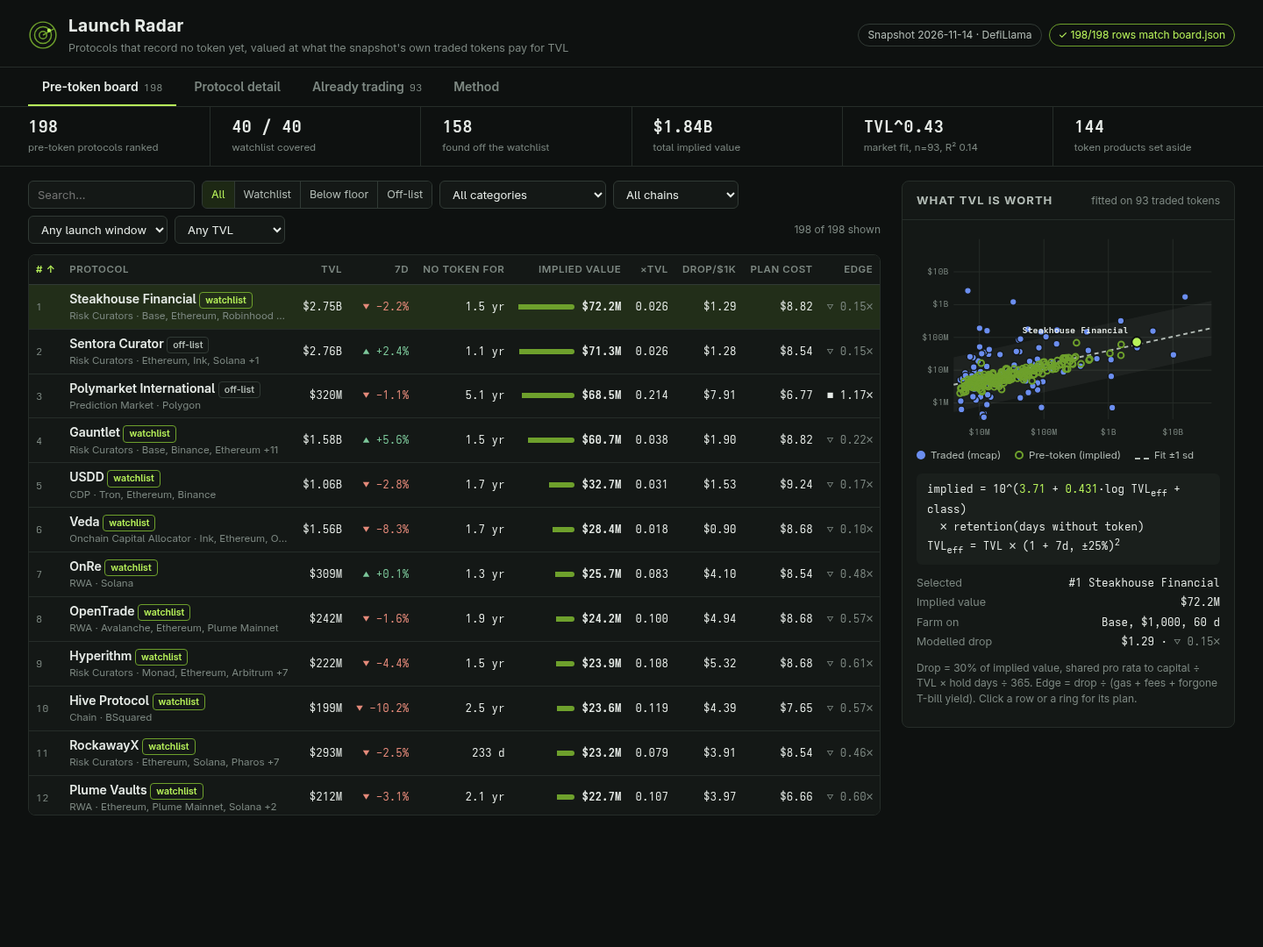
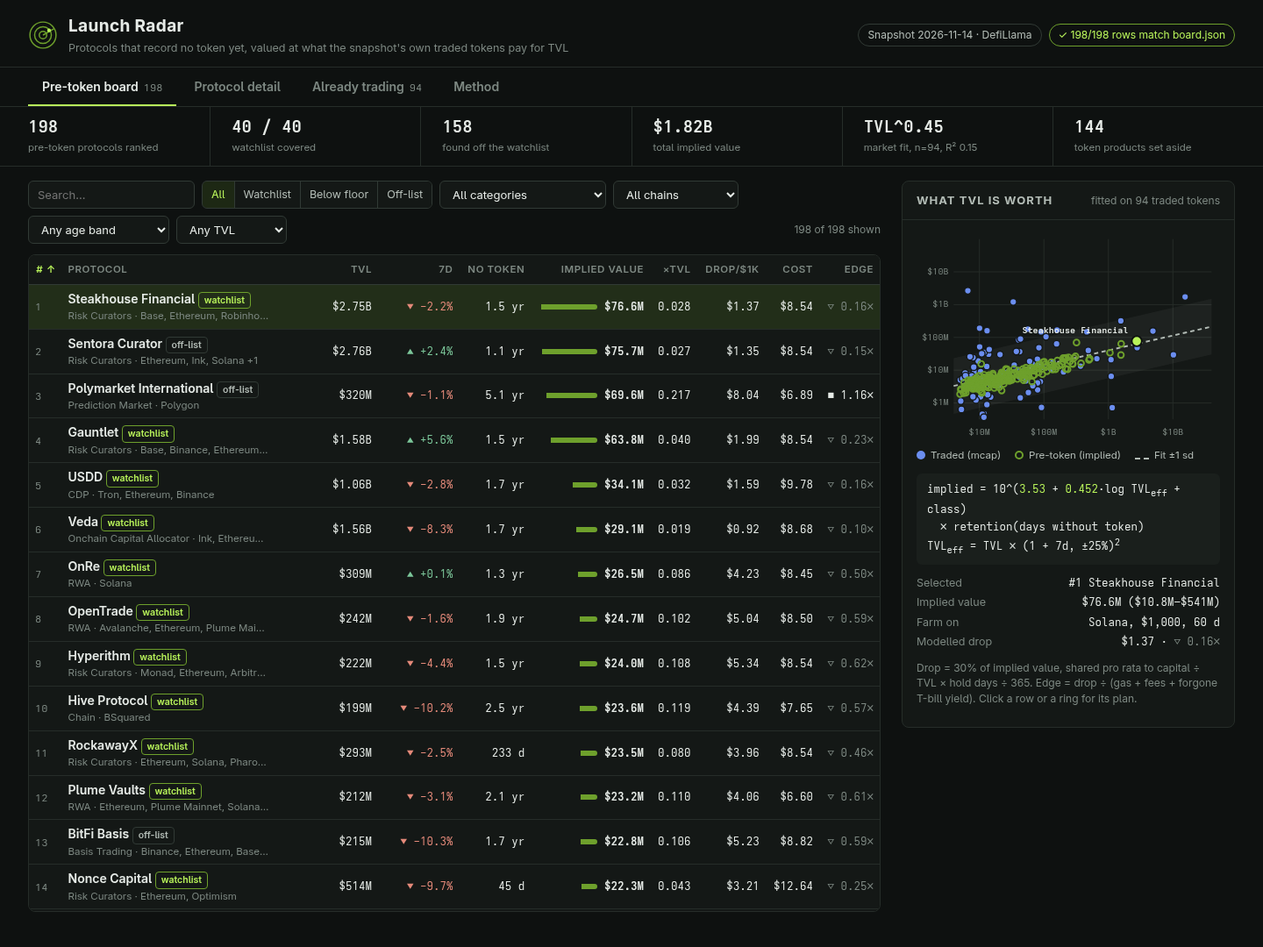
Fix review findings: token grouping by CoinGecko id, step-derived plan totals, consistent exit rule, all-chain gas choice, hash validation, null-last sorting, keyboard sort and links, fit range

diff --git a/dashboard/app.js b/dashboard/app.js
@@ -11,19 +11,21 @@
   var bySlug = {}; rows.forEach(function (r) { bySlug[r.slug] = r; });
 
   // board.json and the page agree row for row, or the header says where they part.
-  var agree = B.length === rows.length && B.every(function (d) { var r = bySlug[d[0]]; return r && r.rank === d[1] && r.implied === d[2]; });
+  var seen = {};
+  var agree = B.length === rows.length && B.every(function (d) { var r = bySlug[d[0]], once = !seen[d[0]]; seen[d[0]] = true; return once && r && r.rank === d[1] && r.implied === d[2]; });
 
-  var state = { view: 'board', p: rows[0].slug, q: '', set: 'all', cat: 'all', chain: 'all', win: 'all', min: 0, sort: 'rank', dir: 1 };
+  var DEFAULTS = { view: 'board', p: rows[0].slug, q: '', set: 'all', cat: 'all', chain: 'all', win: 'all', min: 0, sort: 'rank', dir: 1 };
+  var state = {};
   var COLS = [
     { k: 'rank', l: '#', n: true, f: function (r) { return r.rank; } },
     { k: 'name', l: 'Protocol', f: function (r) { return r.name.toLowerCase(); } },
     { k: 'tvl', l: 'TVL', n: true, f: function (r) { return r.tvl_usd; } },
-    { k: 'g7', l: '7d', n: true, f: function (r) { return r.change_7d === null ? -1e9 : r.change_7d; } },
-    { k: 'age', l: 'No token for', n: true, f: function (r) { return r.v.age_days === null ? -1 : r.v.age_days; } },
+    { k: 'g7', l: '7d', n: true, f: function (r) { return r.change_7d; } },
+    { k: 'age', l: 'No token', n: true, f: function (r) { return r.v.age_days; } },
     { k: 'implied', l: 'Implied value', n: true, f: function (r) { return r.implied; } },
     { k: 'mult', l: '×TVL', n: true, f: function (r) { return r.implied / r.tvl_usd; } },
     { k: 'per1k', l: 'Drop/$1k', n: true, f: function (r) { return r.plan.per_1k; } },
-    { k: 'cost', l: 'Plan cost', n: true, f: function (r) { return r.plan.cash_cost + r.plan.opp_cost; } },
+    { k: 'cost', l: 'Cost', n: true, f: function (r) { return r.plan.cash_cost + r.plan.opp_cost; } },
     { k: 'edge', l: 'Edge', n: true, f: function (r) { return r.plan.edge; } },
   ];
 
@@ -39,7 +41,7 @@
     return e;
   }
   // Edge as a status: text and glyph, never colour alone.
-  function edge(e) { var c = e >= 1.5 ? 'good' : e >= 1 ? 'ok' : 'weak'; return h('span', { class: 'edge ' + c, text: (c === 'good' ? '▲ ' : c === 'ok' ? '■ ' : '▽ ') + e.toFixed(e < 10 ? 2 : 1) + '×' }); }
+  function edge(e) { var c = e >= 1.5 ? 'good' : e >= 1 ? 'ok' : 'weak'; return h('span', { class: 'edge ' + c, text: (c === 'good' ? '▲ ' : c === 'ok' ? '■ ' : '▽ ') + (e < 10 ? (Math.floor(e * 100) / 100).toFixed(2) : e.toFixed(1)) + '×' }); }
   function tick(v) { return v >= 1e9 ? '$' + v / 1e9 + 'B' : '$' + v / 1e6 + 'M'; }
   function pct(v) { return v === null ? 'n/a' : (v > 0 ? '+' : '') + v.toFixed(1) + '%'; }
   function trend(v) { return h('span', { class: v === null ? 'note' : v >= 0 ? 'up' : 'down', text: (v === null ? '' : v >= 0 ? '▲ ' : '▼ ') + pct(v) }); }
@@ -49,11 +51,19 @@
 
   // ---- URL hash <-> state ----
   function readHash() {
+    var next = {}, k;
+    for (k in DEFAULTS) next[k] = DEFAULTS[k];
     location.hash.replace(/^#/, '').split('&').forEach(function (kv) {
-      var p = kv.split('='); if (!p[0] || !(p[0] in state)) return;
-      var v = decodeURIComponent(p[1] || ''); state[p[0]] = typeof state[p[0]] === 'number' ? Number(v) || 0 : v;
+      var p = kv.split('='), v; if (!p[0] || !(p[0] in DEFAULTS)) return;
+      try { v = decodeURIComponent(p[1] || ''); } catch (e) { return; }
+      next[p[0]] = typeof DEFAULTS[p[0]] === 'number' ? Number(v) || 0 : v;
     });
-    if (!bySlug[state.p]) state.p = rows[0].slug;
+    // Anything the page does not know falls back to its default rather than breaking the view.
+    if (['board', 'detail', 'traded', 'method'].indexOf(next.view) < 0) next.view = 'board';
+    if (!bySlug[next.p]) next.p = rows[0].slug;
+    if (!COLS.some(function (c) { return c.k === next.sort; })) next.sort = 'rank';
+    next.dir = next.dir < 0 ? -1 : 1;
+    state = next;
   }
   function go(patch) { for (var k in patch) state[k] = patch[k]; var o = []; for (var k2 in state) o.push(k2 + '=' + encodeURIComponent(state[k2])); history.replaceState(null, '', '#' + o.join('&')); render(); }
 
@@ -69,7 +79,11 @@
         r.tvl_usd >= state.min && (!q || (r.name + ' ' + r.slug + ' ' + (r.category || '')).toLowerCase().indexOf(q) >= 0);
     });
     var col = COLS.filter(function (c) { return c.k === state.sort; })[0] || COLS[0];
-    out.sort(function (a, b) { var x = col.f(a), y = col.f(b); return (x < y ? -1 : x > y ? 1 : a.rank - b.rank) * state.dir; });
+    out.sort(function (a, b) {
+      var x = col.f(a), y = col.f(b);
+      if (x === null || y === null) return x === y ? a.rank - b.rank : x === null ? 1 : -1; // n/a sorts last
+      return x < y ? -state.dir : x > y ? state.dir : a.rank - b.rank;
+    });
     return out;
   }
 
@@ -110,7 +124,7 @@
     s += '<path class="fit" d="M' + X(la) + ' ' + Y(F(la, 0)) + 'L' + X(lb) + ' ' + Y(F(lb, 0)) + '"/>';
     function inside(x, y) { return Math.log10(x) >= x0 && Math.log10(x) <= x1 && Math.log10(y) >= y0 && Math.log10(y) <= y1; }
     fit.live.forEach(function (p) { if (inside(p.tvl_usd, p.mcap_usd)) s += '<circle class="traded" r="4" cx="' + X(p.tvl_usd) + '" cy="' + Y(p.mcap_usd) + '"/><circle class="hit" r="7" cx="' + X(p.tvl_usd) + '" cy="' + Y(p.mcap_usd) + '" data-t="' + esc(p.name + (p.symbol ? ' (' + p.symbol + ')' : '')) + '" data-d="trades · mcap ' + usd(p.mcap_usd) + ' · TVL ' + usd(p.tvl_usd) + '"/>'; });
-    rows.forEach(function (r) { if (inside(r.tvl_usd, r.implied)) s += '<circle class="pre' + (shown && !shown[r.slug] ? ' dim' : '') + '" r="3.5" cx="' + X(r.tvl_usd) + '" cy="' + Y(r.implied) + '"/><circle class="hit" r="6" cx="' + X(r.tvl_usd) + '" cy="' + Y(r.implied) + '" data-s="' + r.slug + '" data-t="#' + r.rank + ' ' + esc(r.name) + '" data-d="pre-token · implied ' + usd(r.implied) + ' · TVL ' + usd(r.tvl_usd) + '"/>'; });
+    rows.forEach(function (r) { if (inside(r.tvl_usd, r.implied)) s += '<circle class="pre' + (shown && !shown[r.slug] ? ' dim' : '') + '" r="3.5" cx="' + X(r.tvl_usd) + '" cy="' + Y(r.implied) + '"/><circle class="hit" r="6" cx="' + X(r.tvl_usd) + '" cy="' + Y(r.implied) + '"' + (shown && !shown[r.slug] ? '' : ' data-s="' + r.slug + '"') + ' data-t="#' + r.rank + ' ' + esc(r.name) + '" data-d="pre-token · implied ' + usd(r.implied) + ' · TVL ' + usd(r.tvl_usd) + '"/>'; });
     if (sel) { s += '<circle class="me" r="6" cx="' + X(sel.tvl_usd) + '" cy="' + Y(sel.implied) + '"/><text class="melabel" text-anchor="' + (X(sel.tvl_usd) > W * 0.65 ? 'end' : 'start') + '" x="' + (X(sel.tvl_usd) + (X(sel.tvl_usd) > W * 0.65 ? -10 : 10)) + '" y="' + (Y(sel.implied) - 10) + '">' + esc(sel.name) + '</text>'; }
     var box = h('div', { html: '<svg class="chart" viewBox="0 0 ' + W + ' ' + H + '" role="img" aria-label="Market cap against TVL: traded tokens, the fitted line and the pre-token board">' + s + '</svg>' });
     var svg = box.firstChild;
@@ -134,31 +148,31 @@
     var list = visible(), shown = {};
     list.forEach(function (r) { shown[r.slug] = true; });
     if (list.length && !shown[state.p]) state.p = list[0].slug; // the side panel follows the filter
-    var sel = bySlug[state.p];
+    var sel = list.length ? bySlug[state.p] : null;
     var f = h('div', { class: 'filters' }, [
-      h('input', { type: 'search', placeholder: 'Search…', value: state.q, 'aria-label': 'Search', oninput: function (e) { state.q = e.target.value; go({}); var i = app.querySelector('input'); i.focus(); i.setSelectionRange(i.value.length, i.value.length); } }),
+      h('input', { type: 'search', placeholder: 'Search…', value: state.q, 'aria-label': 'Search', oninput: function (e) { var at = e.target.selectionStart; go({ q: e.target.value }); var i = app.querySelector('input'); i.focus(); i.setSelectionRange(at, at); } }),
       h('div', { class: 'seg', role: 'group', 'aria-label': 'Set' }, [['all', 'All'], ['watchlist', 'Watchlist'], ['early', 'Below floor'], ['off-list', 'Off-list']].map(function (o) {
         return h('button', { 'aria-pressed': String(state.set === o[0]), onclick: function () { go({ set: o[0] }); } }, [o[1]]);
       })),
       select('cat', 'All categories', cats), select('chain', 'All chains', chains),
-      select('win', 'Any launch window', ['Points season', 'Prime window', 'Long wait', 'Age unknown']),
+      select('win', 'Any age band', M.bands),
       h('select', { 'aria-label': 'Minimum TVL', onchange: function (e) { go({ min: Number(e.target.value) }); } }, [0, 1e7, 5e7, 1e8, 5e8].map(function (v) { return h('option', { value: v, selected: state.min === v ? 'selected' : null }, [v ? 'TVL ≥ ' + usd(v) : 'Any TVL']); })),
       h('span', { class: 'shown', text: list.length + ' of ' + rows.length + ' shown' }),
     ]);
     var act = [];
     if (state.set !== 'all') act.push('Set: ' + state.set); if (state.cat !== 'all') act.push('Category: ' + state.cat);
-    if (state.chain !== 'all') act.push('Chain: ' + state.chain); if (state.win !== 'all') act.push('Window: ' + state.win);
+    if (state.chain !== 'all') act.push('Chain: ' + state.chain); if (state.win !== 'all') act.push('Age: ' + state.win);
     if (state.min) act.push('TVL ≥ ' + usd(state.min)); if (state.q) act.push('“' + state.q + '”');
     if (state.sort !== 'rank') act.push('Sorted by ' + COLS.filter(function (c) { return c.k === state.sort; })[0].l + (state.dir < 0 ? ' ↓' : ' ↑'));
     var maxV = list.length ? Math.max.apply(null, list.map(function (r) { return r.implied; })) : 1;
     var thead = h('tr', {}, COLS.map(function (c) {
       return h('th', { class: c.n ? 'n' : null, 'aria-sort': state.sort === c.k ? (state.dir < 0 ? 'descending' : 'ascending') : null,
-        onclick: function () { go({ sort: c.k, dir: state.sort === c.k ? -state.dir : (c.k === 'rank' || c.k === 'name' ? 1 : -1) }); } }, [c.l]);
+        onclick: function () { go({ sort: c.k, dir: state.sort === c.k ? -state.dir : (c.k === 'rank' || c.k === 'name' ? 1 : -1) }); } }, [h('button', { class: 'sortbtn', type: 'button' }, [c.l])]);
     }));
     var tb = h('tbody', {}, list.map(function (r) {
       return h('tr', { class: r.slug === state.p ? 'sel' : null, onclick: function () { go({ view: 'detail', p: r.slug }); } }, [
         h('td', { class: 'rank' }, [String(r.rank)]),
-        h('td', {}, [h('div', { class: 'pname' }, [r.name + ' ', h('span', { class: 'tag ' + r.set, text: r.set === 'early' ? 'below floor' : r.set })]),
+        h('td', {}, [h('div', { class: 'pname' }, [h('a', { href: '#view=detail&p=' + r.slug, onclick: function (e) { e.preventDefault(); } }, [r.name]), ' ', h('span', { class: 'tag ' + r.set, text: r.set === 'early' ? 'below floor' : r.set })]),
           h('div', { class: 'psub', text: (r.category || 'Uncategorised') + ' · ' + r.chains.slice(0, 3).join(', ') + (r.chains.length > 3 ? ' +' + (r.chains.length - 3) : '') })]),
         h('td', { class: 'n' }, [usd(r.tvl_usd)]), h('td', { class: 'n' }, [trend(r.change_7d)]), h('td', { class: 'n' }, [age(r.v.age_days)]),
         h('td', { class: 'n' }, [h('div', { class: 'bar' }, [h('i', { style: 'width:' + Math.max(2, 64 * r.implied / maxV).toFixed(1) + 'px' }), h('b', { text: usd(r.implied) })])]),
@@ -171,7 +185,7 @@
     var side = h('div', { class: 'panel' }, [
       h('div', { class: 'hd' }, [h('h2', { text: 'What TVL is worth' }), h('span', { class: 'note', text: 'fitted on ' + fit.n + ' traded tokens' })]),
       h('div', { class: 'bd' }, [scatter(sel, 250, 360, shown), equation(),
-        h('dl', { class: 'kv' }, [h('dt', { text: 'Selected' }), h('dd', { text: '#' + sel.rank + ' ' + sel.name }), h('dt', { text: 'Implied value' }), h('dd', { text: usd(sel.implied) }),
+        !sel ? h('p', { class: 'note', text: 'No protocol matches these filters.' }) : h('dl', { class: 'kv' }, [h('dt', { text: 'Selected' }), h('dd', { text: '#' + sel.rank + ' ' + sel.name }), h('dt', { text: 'Implied value' }), h('dd', { text: usd(sel.implied) + ' (' + usd(sel.v.low) + '–' + usd(sel.v.high) + ')' }),
           h('dt', { text: 'Farm on' }), h('dd', { text: sel.plan.chain + ', ' + usd(sel.plan.capital) + ', ' + sel.plan.days + ' d' }), h('dt', { text: 'Modelled drop' }), h('dd', {}, [usd(sel.plan.drop_usd) + ' · ', edge(sel.plan.edge)])]),
         h('p', { class: 'note', text: 'Drop = ' + (R.params.airdrop_share * 100) + '% of implied value, shared pro rata to capital ÷ TVL × hold days ÷ ' + R.params.season_days + '. Edge = drop ÷ (gas + fees + forgone T-bill yield). Click a row or a ring for its plan.' })]),
     ]);
@@ -202,16 +216,16 @@
     var cautions = [];
     if (p.edge < 1) cautions.push('At ' + usd(r.tvl_usd) + ' of TVL the modelled drop (' + usd(p.drop_usd) + ') does not cover the plan\'s costs: farm it only with capital you would park here anyway, or pick a smaller protocol from the Edge column.');
     var caution = r.set === 'off-list' ? 'Above the floor but left off the house watchlist, which drops products whose parent protocol is recorded: check whether a parent token already trades before farming.' :
-      r.window === 'Long wait' ? 'Over two years with no recorded token: the value holds if a token comes, but the chance it ever comes is lower. The plan keeps the hold short.' :
-      r.window === 'Points season' ? 'Young TVL is partly points capital that may leave at launch; retention cuts its value to ×' + v.retention.toFixed(2) + '.' : null;
+      r.window === M.bands[2] ? 'Tracked for over two years with no token recorded: the value holds if a token comes, but this board does not say one will. The plan keeps the hold short.' :
+      r.window === M.bands[0] ? 'Young TVL is partly points capital that may leave at launch; retention cuts its value to ×' + v.retention.toFixed(2) + '.' : null;
     return h('div', {}, [
       h('div', { class: 'dhead' }, [h('div', {}, [h('h2', {}, ['#' + r.rank + ' ' + r.name + ' ', h('span', { class: 'tag ' + r.set, text: r.set === 'early' ? 'below floor' : r.set })]),
         h('div', { class: 'psub', text: (r.category || 'Uncategorised') + ' · ' + r.chains.join(', ') + ' · listed ' + (r.listed_at || 'n/a') + ' · ' + r.window + ' · records no token' })]),
         h('div', {}, [h('button', { class: 'back', onclick: function () { go({ view: 'detail', p: rows[Math.max(0, i - 1)].slug }); } }, ['← #' + Math.max(1, r.rank - 1)]), ' ',
           h('button', { class: 'back', onclick: function () { go({ view: 'detail', p: rows[Math.min(rows.length - 1, i + 1)].slug }); } }, ['#' + Math.min(rows.length, r.rank + 1) + ' →']), ' ',
           h('button', { class: 'back', onclick: function () { go({ view: 'board' }); } }, ['Board'])])]),
-      h('div', { class: 'stats' }, [['TVL', usd(r.tvl_usd)], ['7-day change', pct(r.change_7d)], ['Without a token', age(v.age_days)], ['Implied ×TVL', (r.implied / r.tvl_usd).toFixed(3)], ['Implied value', usd(r.implied)]].map(function (s, k) {
-        return h('div', { class: 'stat' + (k === 4 ? ' hero' : '') }, [h('b', { text: s[1] }), h('span', { text: s[0] })]);
+      h('div', { class: 'stats' }, [['TVL', usd(r.tvl_usd)], ['7-day change', pct(r.change_7d)], ['Tracked, no token', age(v.age_days)], ['Implied ×TVL', (r.implied / r.tvl_usd).toFixed(3)], ['Implied value', usd(r.implied)]].map(function (s, k) {
+        return h('div', { class: 'stat' + (k === 4 ? ' hero' : '') }, [h('b', { text: s[1] }), h('span', { text: k === 4 ? 'Implied value · fit ±1 sd ' + usd(v.low) + '–' + usd(v.high) : s[0] })]);
       })),
       h('div', { class: 'detail' }, [
         h('div', {}, [h('div', { class: 'panel' }, [h('div', { class: 'hd' }, [h('h2', { text: 'How the value is built' }), h('span', { class: 'note', text: 'each bar is the running value' })]), h('div', { class: 'bd' }, [wf])]),

diff --git a/dashboard/model.js b/dashboard/model.js
@@ -61,11 +61,14 @@
 
   // 1. FIT: least squares of log10(mcap) on log10(TVL) over the snapshot's traded tokens.
   function fitMarket(protocols) {
-    // One point per token: records sharing a token (Aave V2, V3...) pool their TVL against one market cap.
-    var tokens = {}, all = [];
-    protocols.forEach(function (p) {
-      if (!hasToken(p) || !(p.tvl_usd > 0) || DERIVED.indexOf(p.category) >= 0) return;
-      var id = (p.symbol || p.gecko_id).toUpperCase(), t = tokens[id];
+    // One point per token, keyed by CoinGecko id. A record with a ticker but no id (Aave V3 beside
+    // Aave V2's id) joins the id whose ticker it shares, only when exactly one id carries that ticker.
+    var tokens = {}, all = [], bySym = {};
+    var usable = protocols.filter(function (p) { return hasToken(p) && p.tvl_usd > 0 && DERIVED.indexOf(p.category) < 0; });
+    usable.forEach(function (p) { if (p.gecko_id && p.symbol) { var k = p.symbol.toUpperCase(); (bySym[k] = bySym[k] || {})[p.gecko_id] = true; } });
+    usable.forEach(function (p) {
+      var ids = p.symbol ? Object.keys(bySym[p.symbol.toUpperCase()] || {}) : [];
+      var id = p.gecko_id ? 'g:' + p.gecko_id : ids.length === 1 ? 'g:' + ids[0] : 's:' + (p.symbol || p.slug).toUpperCase(), t = tokens[id];
       if (!t) { t = tokens[id] = { slug: p.slug, name: p.name, category: p.category, chains: p.chains, tvl_usd: 0, mcap_usd: 0, symbol: p.symbol, top: 0, members: 0 }; all.push(t); }
       t.tvl_usd += p.tvl_usd; t.members += 1; t.mcap_usd = Math.max(t.mcap_usd, p.mcap_usd || 0);
       if (p.tvl_usd > t.top) { t.top = p.tvl_usd; t.slug = p.slug; t.name = p.name.replace(VERSIONED, ''); t.category = p.category; t.chains = p.chains; }
@@ -111,57 +114,57 @@
     var age = ageDays(asOf, p.listed_at), days = age === null ? unknownAge : age;
     var retention = P.retention_floor + (1 - P.retention_floor) * (1 - Math.exp(-days / P.retention_days));
     var implied = sig3(classed * retention);
-    return { base: base, trended: trended, classed: classed, implied: implied, growth_pct: g, trend: trend, class_adj: adj, class_n: cls ? cls.n : 0, age_days: age, age_used: days, retention: retention };
+    // The fit's own spread: one residual sd either side is the range a reader should hold the value to.
+    return { low: sig3(implied / Math.pow(10, fit.sd)), high: sig3(implied * Math.pow(10, fit.sd)), base: base, trended: trended, classed: classed, implied: implied, growth_pct: g, trend: trend, class_adj: adj, class_n: cls ? cls.n : 0, age_days: age, age_used: days, retention: retention };
   }
 
-  function windowOf(age) {
-    if (age === null) return 'Age unknown';
-    if (age < 180) return 'Points season';
-    if (age < 730) return 'Prime window';
-    return 'Long wait';
-  }
+  // Age bands: how long DefiLlama has tracked it with no token recorded. Not a launch probability.
+  var BANDS = ['Under 6 months', '6 months to 2 years', 'Over 2 years', 'Age unknown'];
+  function windowOf(age) { return age === null ? BANDS[3] : age < 180 ? BANDS[0] : age < 730 ? BANDS[1] : BANDS[2]; }
 
   // What to do with the money, by category: the verb a farmer follows on the protocol's own app.
   function actionOf(p, cap, chain) {
     var c = (p.category || '').toLowerCase(), n = p.name, $ = usd(cap);
-    if (/curator|allocator|aggregator/.test(c)) return { act: 'Deposit ' + $ + ' USDC into the largest USDC vault ' + n + ' runs on ' + chain + ', picked from the vault list in its own app', touch: 'check the vault share price and re-deposit any rewards' };
-    if (/basis|yield|cedefi/.test(c)) return { act: 'Deposit ' + $ + ' USDC into ' + n + "'s flagship yield or delta-neutral vault on " + chain + ' and keep the receipt token in the wallet', touch: 'compound or re-stake the receipt token' };
-    if (/lend|cdp|collateral/.test(c)) return { act: 'Supply ' + $ + ' USDC to ' + n + ' on ' + chain + ', then borrow 25% of it in a stablecoin and supply that back (health factor above 2)', touch: 'repay and re-borrow a small amount' };
-    if (/dex|liquidity/.test(c)) return { act: 'Provide ' + $ + ' to ' + n + "'s deepest stablecoin pool on " + chain + ' (full range, so it never leaves range)', touch: 'make two swaps of about $50 through the pool' };
-    if (/deriv|options|perp|prediction/.test(c)) return { act: 'Deposit ' + $ + ' USDC as margin on ' + n + ' and open a hedged position: equal long and short, or one market at under 2x', touch: 'roll or rebalance the position once' };
-    if (/rwa/.test(c)) return { act: 'Pass ' + n + "'s KYC if it asks, then subscribe " + $ + ' USDC into its tokenised yield product on ' + chain, touch: 'check the yield accrual and hold' };
-    if (/restak|staking|chain|dtao/.test(c)) return { act: 'Stake ' + $ + " of the chain's native asset through " + n + ' on ' + chain + ' with its default validator or pool', touch: 'claim and restake the staking rewards' };
-    if (/stable/.test(c)) return { act: 'Mint or swap into ' + $ + ' of ' + n + "'s stablecoin on " + chain + ' and deposit it in its savings or earn module', touch: 'compound the savings yield' };
-    if (/payment/.test(c)) return { act: 'Open a ' + $ + ' channel or account on ' + n + ' and route a few payments through it', touch: 'send one small payment' };
-    if (/insurance/.test(c)) return { act: 'Deposit ' + $ + ' USDC into ' + n + "'s cover or underwriting pool on " + chain, touch: 'check the pool and claim rewards' };
-    if (/governance|incentive/.test(c)) return { act: 'Deposit ' + $ + ' into ' + n + "'s incentive gauge on " + chain + ' and vote its emissions toward your pool', touch: 'cast the weekly vote' };
-    return { act: 'Deposit ' + $ + ' USDC into ' + n + "'s main product on " + chain, touch: 'make one deposit or claim' };
+    if (/curator|allocator|aggregator/.test(c)) return { act: 'Deposit ' + $ + ' USDC into the largest USDC vault ' + n + ' runs on ' + chain + ', picked from the vault list in its own app', touch: 'claim any vault rewards and re-deposit them', tx: 1 };
+    if (/basis|yield|cedefi/.test(c)) return { act: 'Deposit ' + $ + ' USDC into ' + n + "'s flagship yield or delta-neutral vault on " + chain + ' and keep the receipt token in the wallet', touch: 'compound or re-stake the receipt token', tx: 1 };
+    if (/lend|cdp|collateral/.test(c)) return { act: 'Supply ' + $ + ' USDC to ' + n + ' on ' + chain + ', then borrow 25% of it in a stablecoin and supply that back (health factor above 2)', touch: 'repay and re-borrow $50', tx: 2 };
+    if (/dex|liquidity/.test(c)) return { act: 'Provide ' + $ + ' to ' + n + "'s deepest stablecoin pool on " + chain + ' (full range, so it never leaves range)', touch: 'make two swaps of about $50 through the pool', tx: 2 };
+    if (/deriv|options|perp|prediction/.test(c)) return { act: (/prediction/.test(c) ? 'Fund ' + $ + ' USDC on ' + n + ' and buy both outcomes of one liquid market, so the position is close to neutral' : 'Deposit ' + $ + ' USDC as margin on ' + n + ' and open a hedged position: equal long and short at under 2x'), touch: 'close and reopen one position to log volume', tx: 2 };
+    if (/rwa/.test(c)) return { act: 'Pass ' + n + "'s KYC if it asks, then subscribe " + $ + ' USDC into its tokenised yield product on ' + chain, touch: '', tx: 0 };
+    if (/restak|staking|chain|dtao/.test(c)) return { act: 'Stake ' + $ + " of the chain's native asset through " + n + ' on ' + chain + ' with its default validator or pool', touch: 'claim and restake the staking rewards', tx: 1 };
+    if (/stable/.test(c)) return { act: 'Mint or swap into ' + $ + ' of ' + n + "'s stablecoin on " + chain + ' and deposit it in its savings or earn module', touch: 'compound the savings yield', tx: 1 };
+    if (/payment/.test(c)) return { act: 'Open a ' + $ + ' channel or account on ' + n + ' and route a few payments through it', touch: 'send one small payment', tx: 1 };
+    if (/insurance/.test(c)) return { act: 'Deposit ' + $ + ' USDC into ' + n + "'s cover or underwriting pool on " + chain, touch: 'claim pool rewards', tx: 1 };
+    if (/governance|incentive/.test(c)) return { act: 'Deposit ' + $ + ' into ' + n + "'s incentive gauge on " + chain + ' and vote its emissions toward your pool', touch: 'cast the weekly vote', tx: 1 };
+    return { act: 'Deposit ' + $ + ' USDC into ' + n + "'s main product on " + chain, touch: 'make one deposit or claim', tx: 1 };
   }
 
-  // A protocol's farm plan: seven steps, each with what it costs in dollars and how long it takes.
+  // A protocol's farm plan: seven steps, each with its dollar cost and its time. The totals are summed
+  // from the steps themselves, so the plan and its summary cannot disagree.
   function farmPlan(p, v, implied) {
-    var ranked = p.chains.slice(0, 3).map(function (c, i) { return { c: c, g: gasOf(c), i: i }; });
+    var ranked = p.chains.map(function (c, i) { return { c: c, g: gasOf(c), i: i }; });
     ranked.sort(function (x, y) { return x.g - y.g || x.i - y.i; });
     var chain = ranked.length ? label(ranked[0].c) : 'its main chain', gas = ranked.length ? ranked[0].g : 0.1;
     var cap = gas >= 1 ? 2500 : 1000; // mainnet gas eats a small position
     var age = v.age_days, days = age === null ? 60 : age < 180 ? 90 : age < 730 ? 60 : 45, weeks = Math.round(days / 7);
     var kyc = /rwa/i.test(p.category || '');
     var a = actionOf(p, cap, chain);
-    var fund = cap * 0.001 + gas, deposit = gas * 2, weekly = gas * weeks, exit = gas * 2;
+    var fund = cap * 0.001 + gas, deposit = gas * 2, weekly = gas * a.tx * weeks, exit = gas * 2;
     var opp = cap * P.cash_yield * days / 365;
     var per1k = implied * P.airdrop_share * (days / P.season_days) * 1000 / p.tvl_usd, drop = per1k * cap / 1000;
-    var cash = fund + deposit + weekly + exit;
-    var other = ranked.length > 1 && ranked[0].i !== 0 ? ' (the cheapest of the chains it lists; ' + p.chains[0] + ' holds more of its TVL)' : '';
+    var cash = fund + deposit + weekly + exit, costs = cash + opp;
+    var why = ranked.length > 1 ? ' (lowest modelled gas of the ' + ranked.length + ' chains it lists)' : '';
     var steps = [
-      { act: 'Set up a fresh ' + walletOf(chain) + ' wallet used only for this farm on ' + chain + other + ', seed phrase written on paper', cost: '$0', time: '10 min' },
-      { act: 'Move ' + usd(cap) + ' onto ' + chain + ' from an exchange or a bridge, plus a little of the gas token', cost: usd(fund) + ' (0.1% route fee + gas)', time: '20 min' },
-      { act: a.act, cost: usd(deposit) + ' gas (approve + deposit); ' + usd(cap) + ' of capital at risk', time: kyc ? '1-3 days for KYC, then 15 min' : '15 min' },
-      { act: 'Once a week, ' + a.touch + ', so the wallet shows activity in every weekly points snapshot', cost: usd(weekly) + ' gas over ' + weeks + ' weeks', time: '5 min a week, ' + weeks * 5 + ' min in all' },
-      { act: 'Hold the position for at least ' + days + ' days (' + windowOf(age).toLowerCase() + '); modelled drop ' + usd(drop) + ' = ' + P.airdrop_share * 100 + '% of ' + usd(implied) + ' x ' + usd(cap) + '/' + usd(p.tvl_usd) + ' of TVL x ' + days + '/' + P.season_days + ' days', cost: usd(opp) + ' of forgone T-bill yield at 4.5%', time: days + ' days' },
-      { act: "Track points only on the rewards page linked from " + p.name + "'s own site; never sign an approval sent by DM or a lookalike claim site", cost: '$0', time: '10 min' },
-      { act: 'Exit rule: if 7-day TVL falls more than 25% or no token by day ' + days * 2 + ', withdraw; if a token launches, claim it on day one and sell half to recover costs', cost: usd(exit) + ' gas to withdraw or claim', time: '15 min' },
+      { act: 'Set up a fresh ' + walletOf(chain) + ' wallet used only for this farm on ' + chain + why + ', seed phrase written on paper', cost: '$0', time: '10 min', min: 10 },
+      { act: 'Move ' + usd(cap) + ' onto ' + chain + ' from an exchange or a bridge, plus a little of the gas token', cost: usd(fund) + ' (0.1% route fee + gas)', time: '20 min', min: 20 },
+      { act: a.act, cost: usd(deposit) + ' gas (approve + deposit); ' + usd(cap) + ' of capital at risk', time: kyc ? '1-3 days for KYC, then 15 min' : '15 min', min: 15 },
+      { act: a.tx ? 'Once a week, ' + a.touch + ', so the wallet shows activity in every weekly points snapshot' : 'Once a week, check that the balance accrues; a held deposit is what earns points here, so no transaction is needed', cost: a.tx ? usd(weekly) + ' gas (' + a.tx * weeks + ' transactions over ' + weeks + ' weeks)' : '$0', time: '5 min a week, ' + weeks * 5 + ' min in all', min: weeks * 5 },
+      { act: 'Hold for ' + days + ' days. If it runs a points or airdrop program, the modelled drop is ' + usd(drop) + ' = ' + P.airdrop_share * 100 + '% of ' + usd(implied) + ' x ' + usd(cap) + '/' + usd(p.tvl_usd) + ' of TVL x ' + days + '/' + P.season_days + ' days', cost: usd(opp) + ' of forgone T-bill yield at 4.5%', time: days + ' days', min: 0 },
+      { act: "Check for a points or rewards page linked from " + p.name + "'s own site, and track your balance there; never sign an approval sent by DM or a lookalike claim site", cost: '$0', time: '10 min', min: 10 },
+      { act: 'Exit rule: on day ' + days + ', or earlier if 7-day TVL falls more than 25%, withdraw unless points are still accruing; if a token launches, claim it and sell ' + usd(costs) + ' of it to cover the plan', cost: usd(exit) + ' gas to withdraw or claim', time: '15 min', min: 15 },
     ];
-    return { chain: chain, capital: cap, days: days, cash_cost: cash, opp_cost: opp, hands_on_min: 45 + weeks * 5 + 15, drop_usd: drop, per_1k: per1k, edge: drop / (cash + opp), steps: steps };
+    var mins = steps.reduce(function (t, x) { return t + x.min; }, 0);
+    return { chain: chain, capital: cap, days: days, cash_cost: cash, opp_cost: opp, hands_on_min: mins, drop_usd: drop, per_1k: per1k, edge: drop / costs, steps: steps };
   }
 
   // The whole radar from one snapshot: the fit, the ranked pre-token board, the traded set kept apart.
@@ -189,5 +192,5 @@
 
   function stepText(s) { return s.act + '. Cost: ' + s.cost + '. Time: ' + s.time + '.'; }
 
-  root.RadarModel = { build: build, stepText: stepText, usd: usd, params: P };
+  root.RadarModel = { build: build, stepText: stepText, usd: usd, params: P, bands: BANDS };
 })(typeof window !== 'undefined' ? window : globalThis);

diff --git a/dashboard/app.css b/dashboard/app.css
@@ -58,17 +58,17 @@ main { padding: var(--s4) var(--s6) var(--s6); }
 .active-f .chip { border-color: var(--pre); color: var(--accent); background: var(--pre-soft); }
 
 table { width: 100%; border-collapse: collapse; }
-th { text-align: left; font-weight: 600; font-size: 11.5px; color: var(--muted); text-transform: uppercase; letter-spacing: 0.05em; padding: 8px 8px; border-bottom: 1px solid var(--line2); white-space: nowrap; cursor: pointer; user-select: none; position: sticky; top: 0; background: var(--panel); }
+th { text-align: left; font-weight: 600; font-size: 11.5px; color: var(--muted); text-transform: uppercase; letter-spacing: 0.05em; padding: 8px 7px; border-bottom: 1px solid var(--line2); white-space: nowrap; cursor: pointer; user-select: none; position: sticky; top: 0; background: var(--panel); }
 th.n, td.n { text-align: right; }
 th[aria-sort] { color: var(--accent); }
 th[aria-sort="descending"]::after { content: " ↓"; }
 th[aria-sort="ascending"]::after { content: " ↑"; }
-td { padding: 6px 8px; border-bottom: 1px solid var(--line); vertical-align: middle; }
+td { padding: 6px 7px; border-bottom: 1px solid var(--line); vertical-align: middle; }
 tbody tr { cursor: pointer; }
 tbody tr:hover { background: var(--raise); }
 tbody tr.sel { background: var(--pre-soft); }
 .pname { font-weight: 600; }
-.psub { color: var(--muted); font-size: 11.5px; white-space: nowrap; overflow: hidden; text-overflow: ellipsis; max-width: 250px; }
+.psub { color: var(--muted); font-size: 11.5px; white-space: nowrap; overflow: hidden; text-overflow: ellipsis; max-width: 230px; }
 .rank { color: var(--muted); font-family: var(--mono); font-size: 12px; }
 .tag { display: inline-block; font-size: 10.5px; padding: 1px 6px; border-radius: 4px; border: 1px solid var(--line2); color: var(--ink2); white-space: nowrap; }
 .tag.watchlist { border-color: var(--pre); color: var(--accent); }
@@ -76,7 +76,7 @@ tbody tr.sel { background: var(--pre-soft); }
 .up { color: var(--up); } .down { color: var(--down); }
 .bar { display: flex; align-items: center; gap: 8px; justify-content: flex-end; }
 .bar i { display: block; height: 6px; border-radius: 0 3px 3px 0; background: var(--pre); min-width: 2px; }
-.scroll { max-height: 640px; overflow: auto; }
+.scroll { max-height: max(480px, calc(100vh - 330px)); overflow: auto; }
 
 svg.chart { width: 100%; display: block; }
 svg.chart .grid line { stroke: var(--line); }
@@ -133,3 +133,6 @@ svg.chart .pre.dim { opacity: 0.15; }
 .stat.edgecard.good { border-color: var(--up); background: rgba(124, 199, 154, 0.1); }
 .stat.edgecard.weak { border-color: var(--line2); }
 .kpis[hidden] { display: none; }
+th .sortbtn { background: none; border: 0; padding: 0; color: inherit; font: inherit; text-transform: inherit; letter-spacing: inherit; cursor: pointer; }
+.pname a { color: inherit; text-decoration: none; } .pname a:hover, .pname a:focus-visible { text-decoration: underline; }
+button:focus-visible, a:focus-visible, select:focus-visible, input:focus-visible { outline: 2px solid var(--accent); outline-offset: 2px; }

diff --git a/main.ts b/main.ts
@@ -71,12 +71,12 @@ const rows = radar.rows.map((r: any) => ({
   days_without_token: r.v.age_days,
   launch_window: r.window,
   model: {
-    fitted_usd: Math.round(r.v.base), trend_multiplier: +r.v.trend.toFixed(4), class_adj_log10: +r.v.class_adj.toFixed(4),
+    fitted_usd: Math.round(r.v.base), trend_multiplier: +r.v.trend.toFixed(4), range_low_usd: r.v.low, range_high_usd: r.v.high, class_adj_log10: +r.v.class_adj.toFixed(4),
     retention: +r.v.retention.toFixed(4), implied_to_tvl: +(r.implied / r.tvl_usd).toFixed(4),
   },
   farm: {
     chain: r.plan.chain, capital_usd: r.plan.capital, hold_days: r.plan.days, cash_cost_usd: +r.plan.cash_cost.toFixed(2),
-    opportunity_cost_usd: +r.plan.opp_cost.toFixed(2), hands_on_minutes: r.plan.hands_on_min, modelled_drop_usd: Math.round(r.plan.drop_usd),
+    opportunity_cost_usd: +r.plan.opp_cost.toFixed(2), hands_on_minutes: r.plan.hands_on_min, modelled_drop_usd: +r.plan.drop_usd.toFixed(2), edge: +r.plan.edge.toFixed(3),
   },
   farm_steps: r.plan.steps.map((s: any) => String(M.stepText(s)).trim()),
 }));
